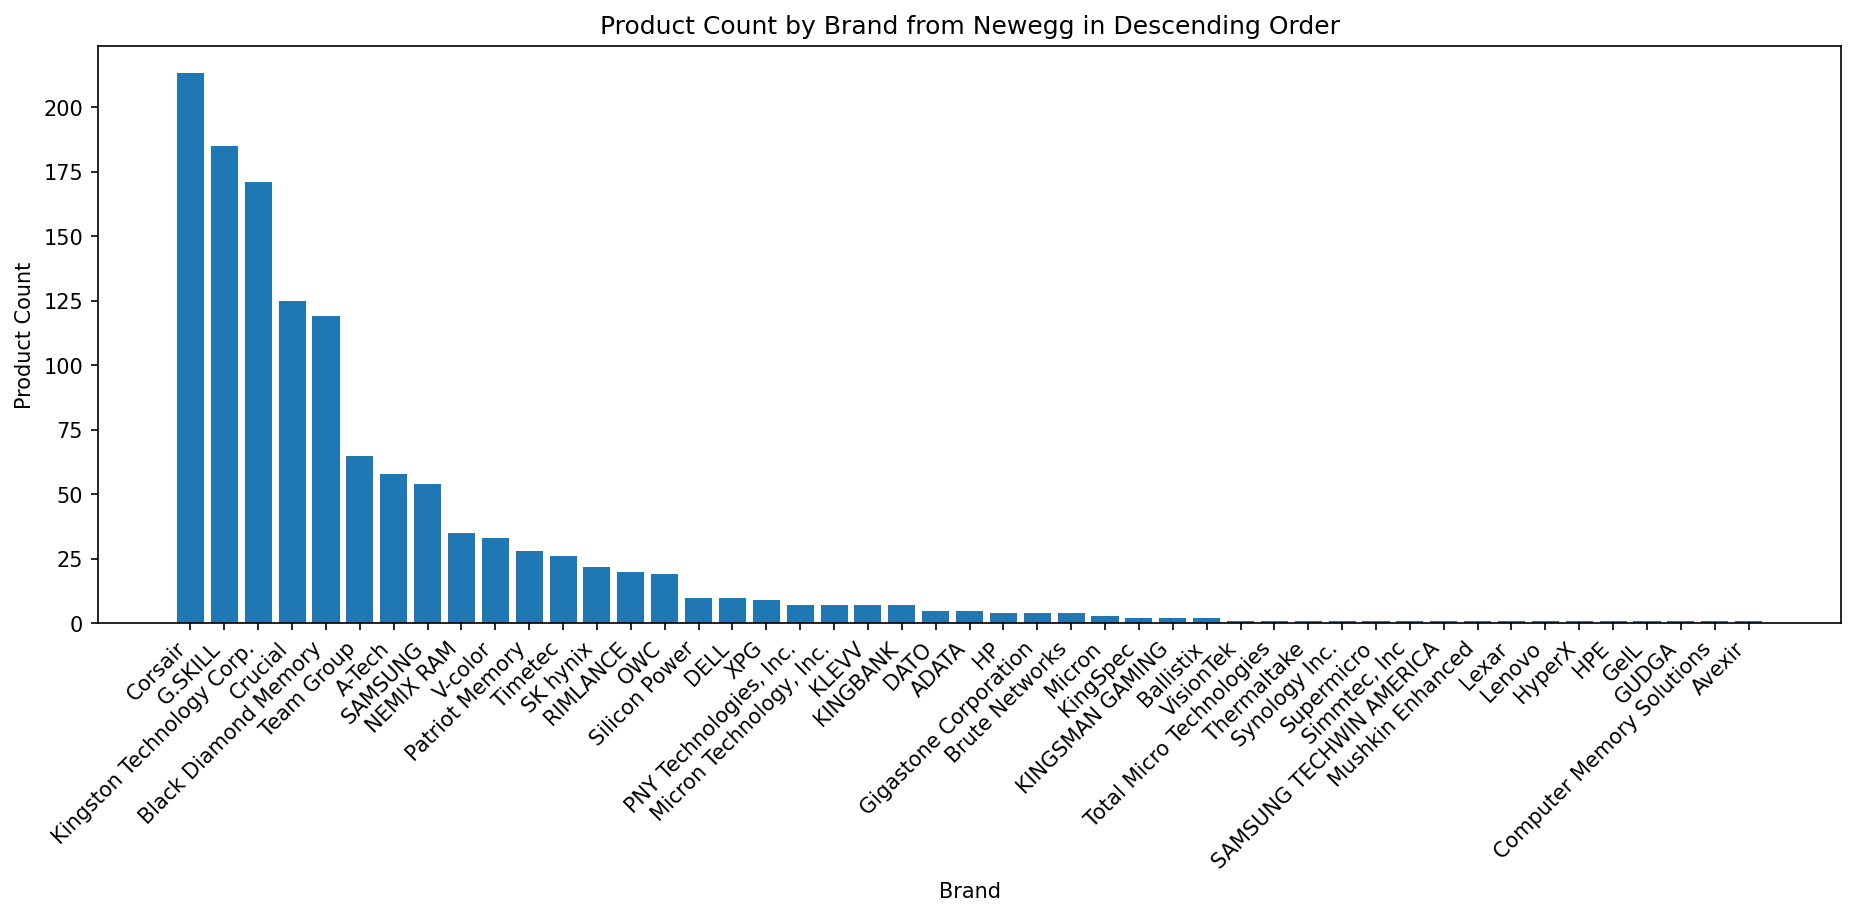
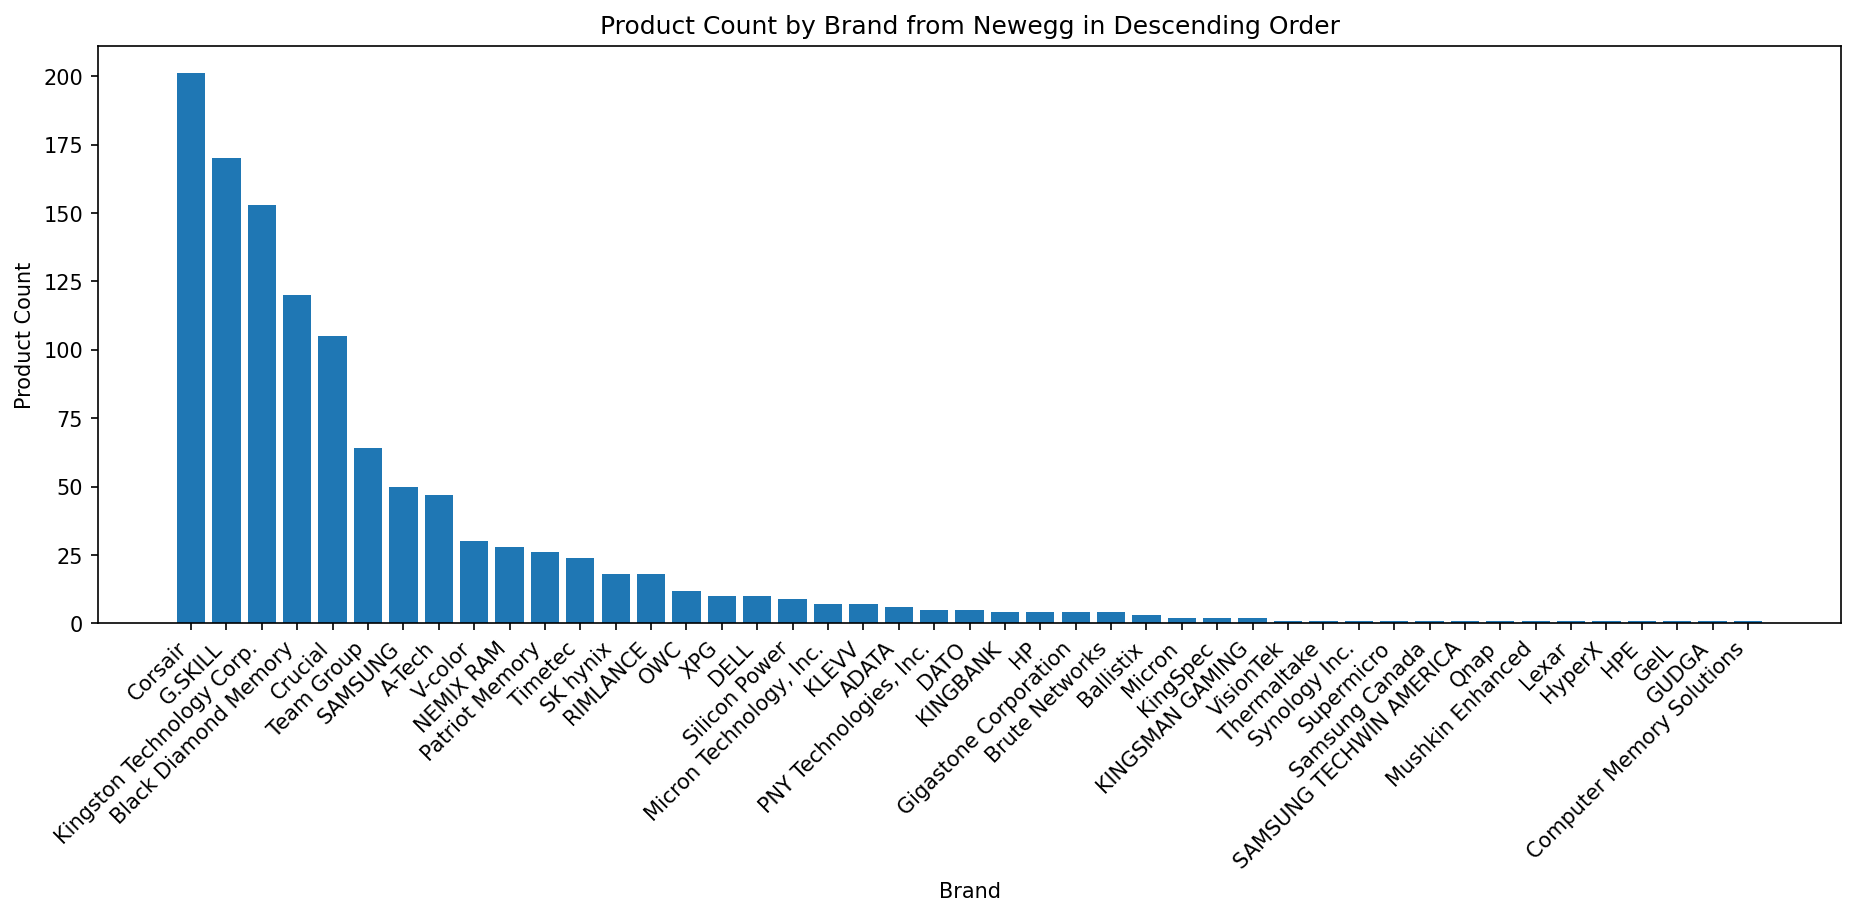
Added the days_traked functions to main and created new DB

diff --git a/main.py b/main.py
@@ -3,7 +3,7 @@ import logging
 import schedule
 import time
 from config import DB_PATH, SCRAPE_INTERVAL_HOURS, BRANDS
-from database import init_db, insert_rows, insert_brands, update_price_changes
+from database import init_db, insert_rows, insert_brands, update_price_changes, add_column_days_tracked, update_days_tracked
 from scraper import scrape_all_pages
 
 logger = logging.getLogger(__name__)
@@ -13,12 +13,14 @@ conn=sqlite3.connect(DB_PATH)
 init_db(conn)
 
 insert_brands(conn,BRANDS)
+add_column_days_tracked(conn)
 
 def scrape_and_store():
     try:
         rows = scrape_all_pages()
         insert_rows(conn, rows)
         update_price_changes(conn)
+        update_days_tracked(conn)
         logger.info(f'Scrape run complete - {len(rows)} rows inserted')
     except Exception as e:
         logger.error(f'Scrape run failed: {e}')